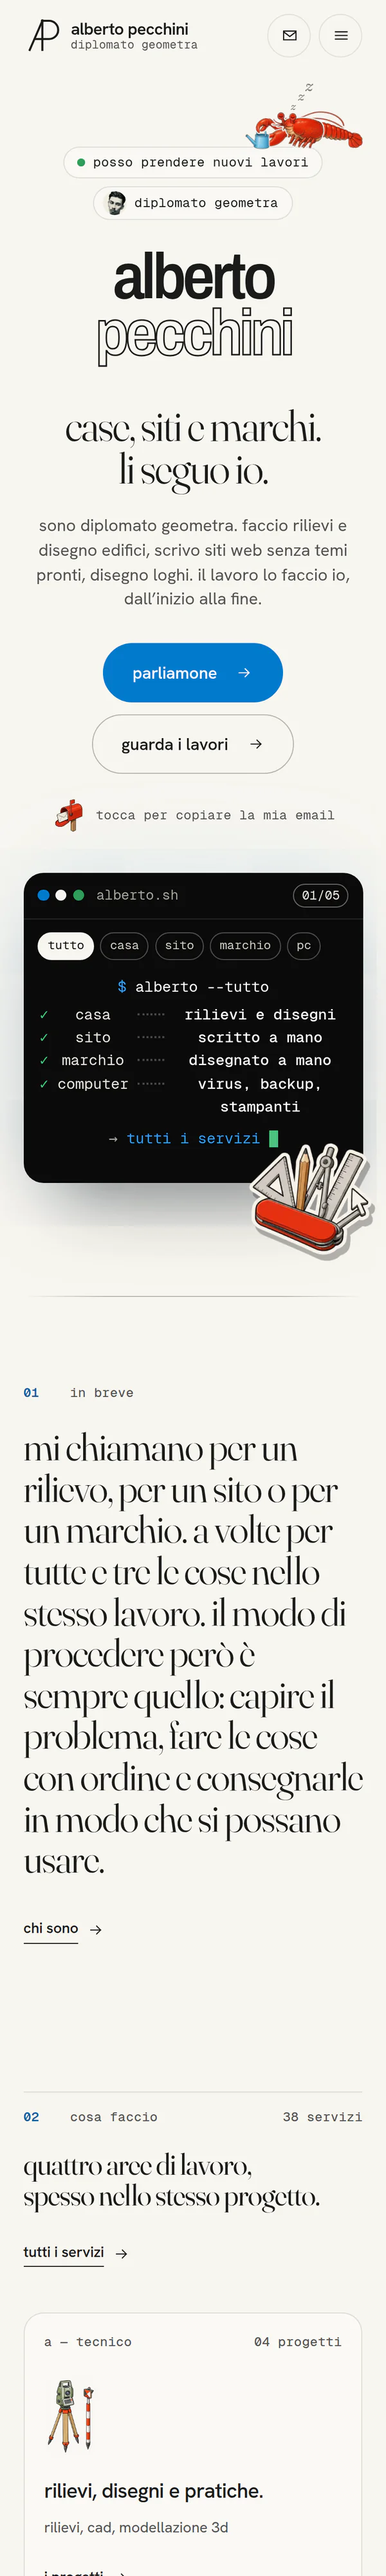
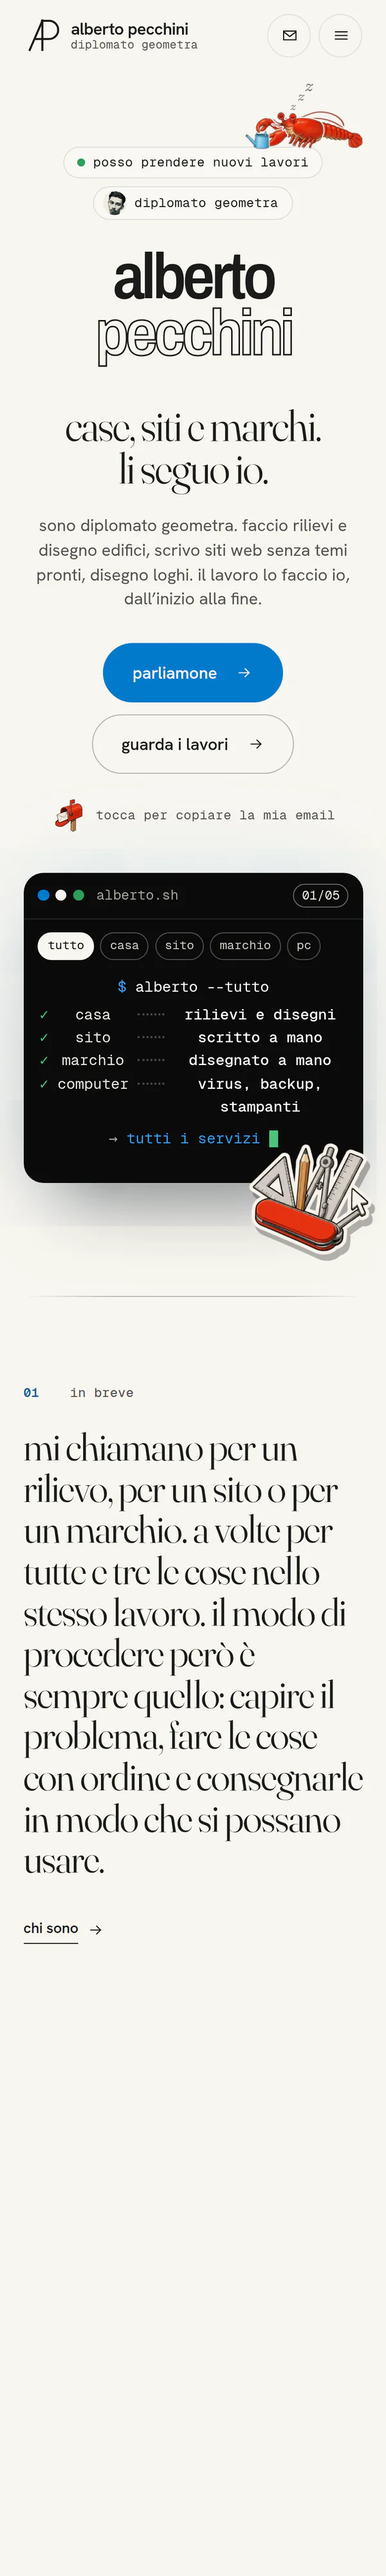
Catture aggiornate: Alberto Pecchini
Rifatte da .github/workflows/catture.yml: il sito online era cambiato.

diff --git a/albertopecchini.it/src/data/catture.js b/albertopecchini.it/src/data/catture.js
@@ -8,11 +8,11 @@ export const catture = {
   'ap-desktop.webp': { w: 1200, h: 750, v: '8db0263b' },
   'ap-iphone-01.webp': { w: 804, h: 4312, v: 'b1007cbf' },
   'ap-iphone-02.webp': { w: 804, h: 4312, v: '69ca6e02' },
-  'ap-iphone-03.webp': { w: 804, h: 4312, v: '434bae22' },
+  'ap-iphone-03.webp': { w: 804, h: 4312, v: 'd21e72f4' },
   'ap-iphone-04.webp': { w: 804, h: 4312, v: '70c268bc' },
   'ap-iphone-05.webp': { w: 804, h: 4312, v: 'afdd555d' },
   'ap-iphone-06.webp': { w: 804, h: 4310, v: '3ee7cbfa' },
-  'ap-mobile-tall.webp': { w: 600, h: 4000, v: 'b8106668' },
+  'ap-mobile-tall.webp': { w: 600, h: 4000, v: '5a6340f3' },
   'ap-mobile.webp': { w: 600, h: 1298, v: '096adddc' },
   'ap-tablet.webp': { w: 720, h: 1036, v: '0006d83e' },
   'bcp-desktop.webp': { w: 1200, h: 750, v: '3a04fbad' },
